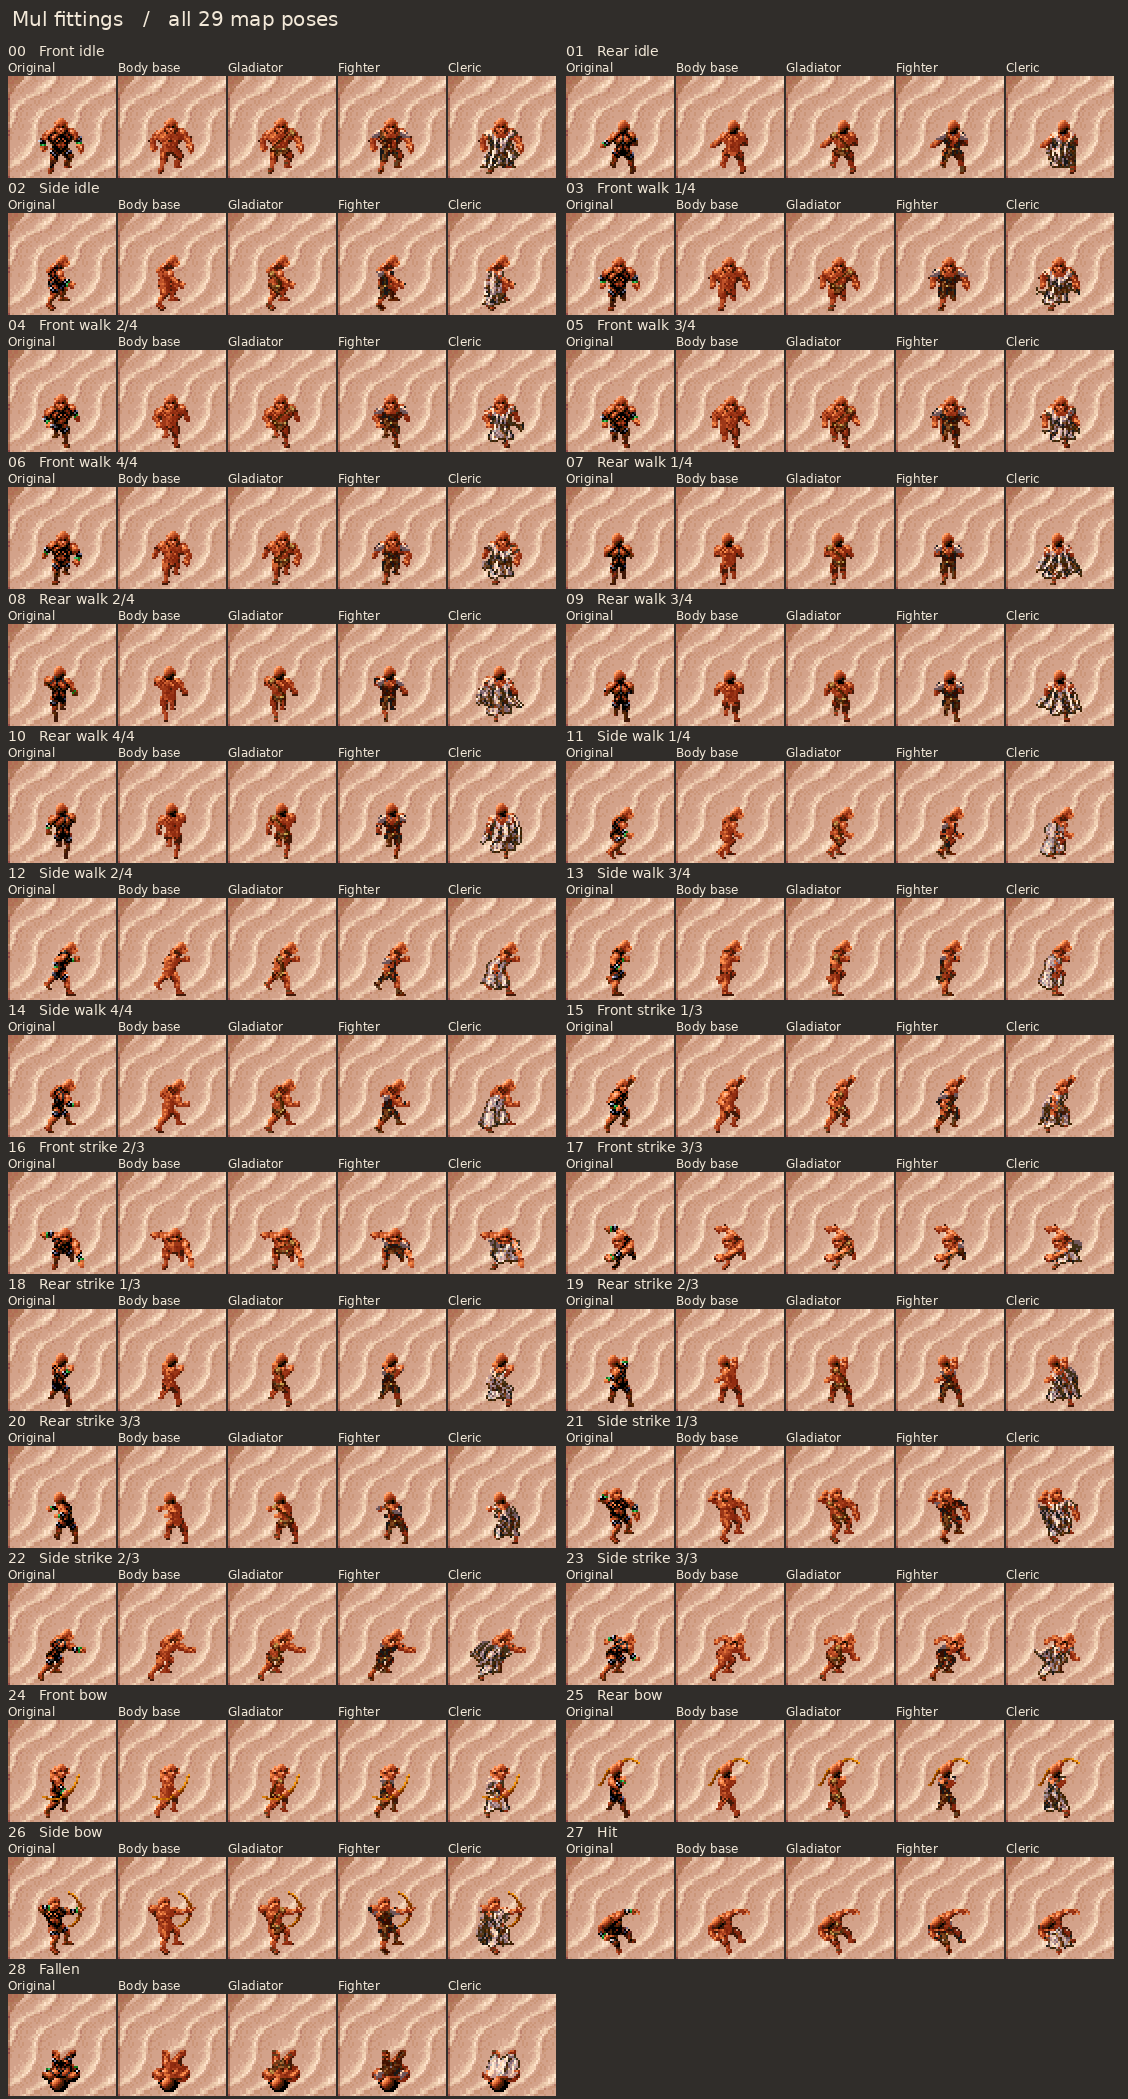
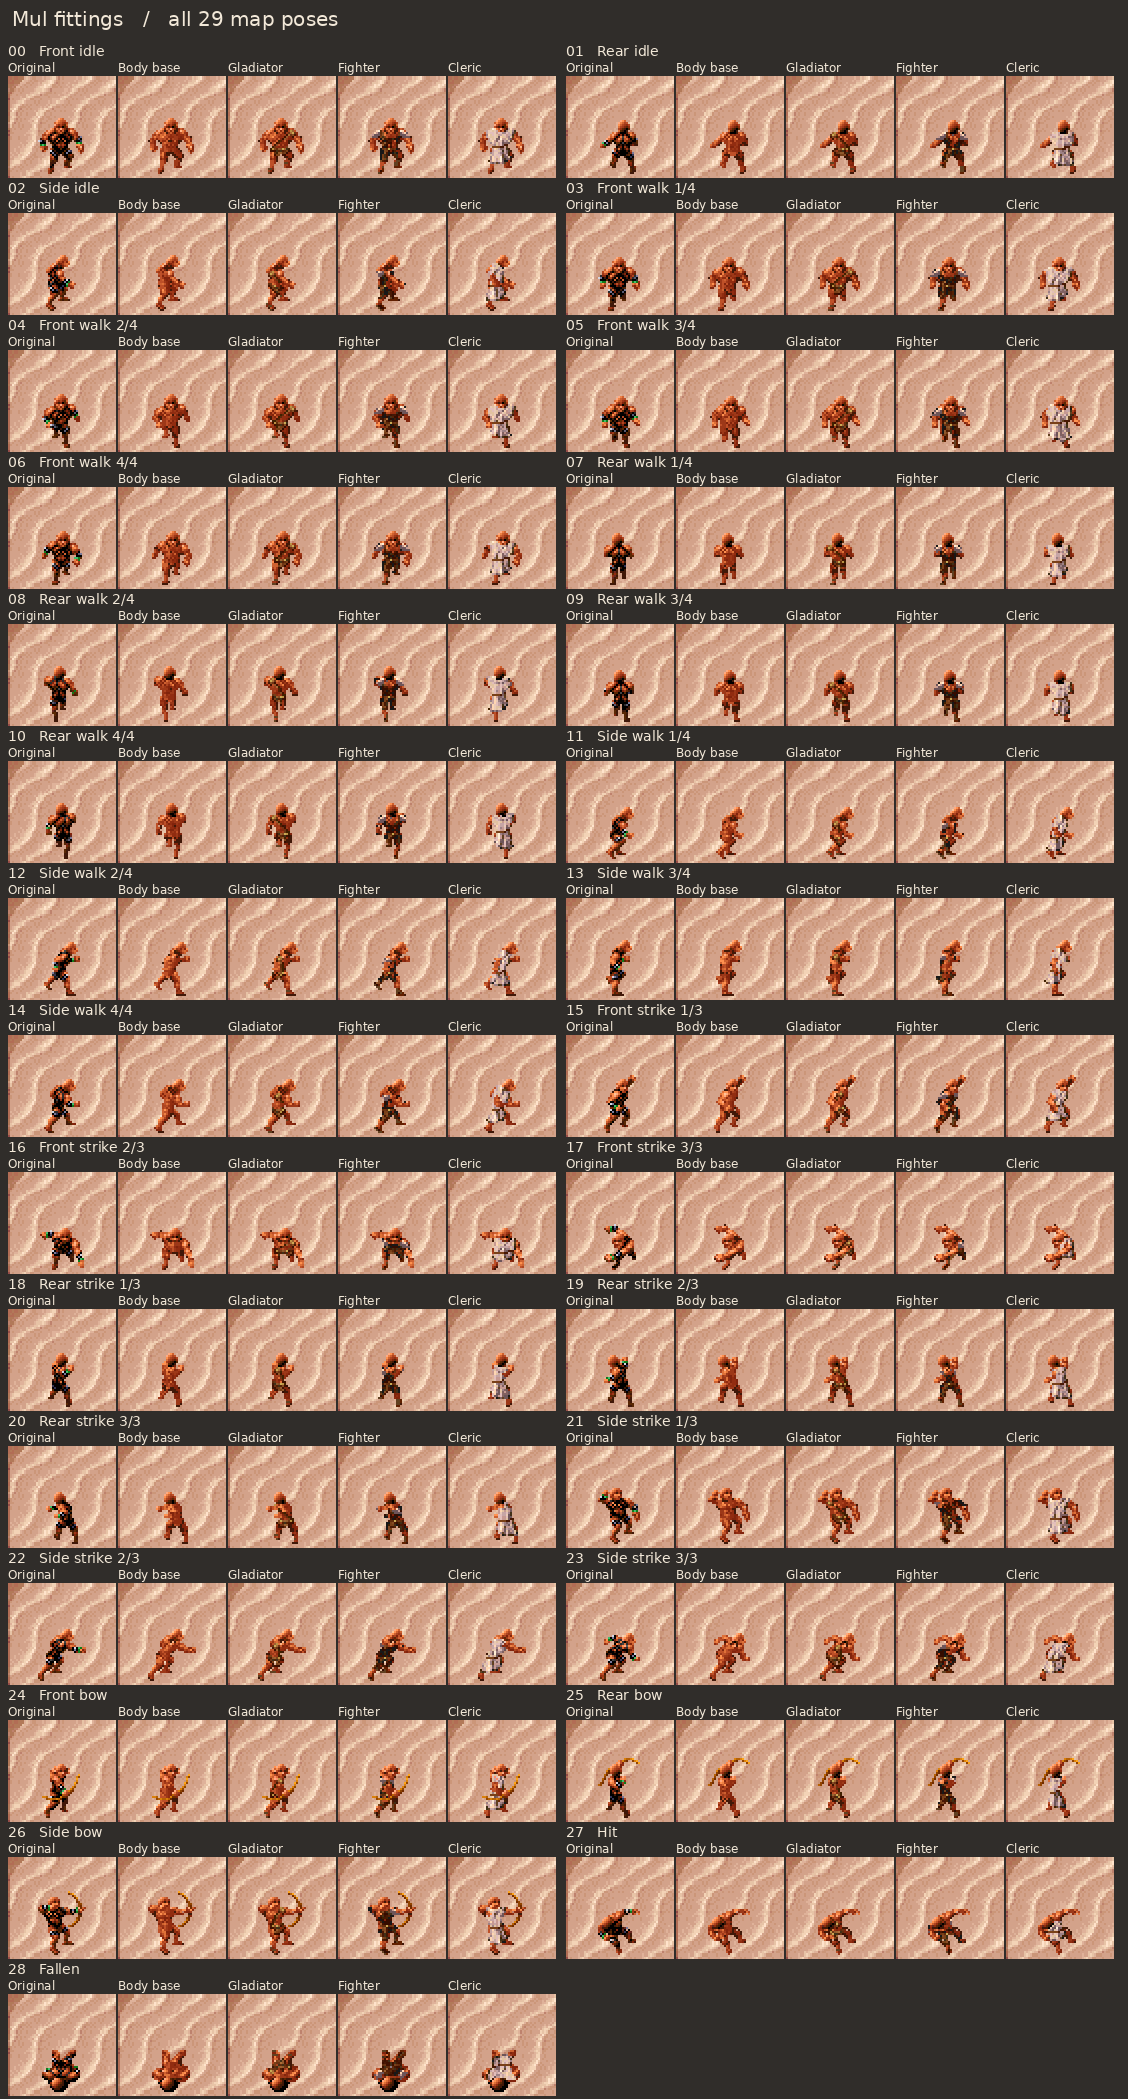
Refit the Cleric robe to the Mul stride and clear crossing forearms

diff --git a/prototypes/mulstudy.py b/prototypes/mulstudy.py
@@ -1,20 +1,21 @@
 """First Mul class fittings, using the retail figure and the human garment studies."""
 import argparse
 from functools import lru_cache
+from math import exp, sin, pi
 from pathlib import Path
 from zipfile import ZipFile
 
-from PIL import Image
+from PIL import Image, ImageDraw
 
 from elfreview import TERRAIN, dwarf, elf, label, loop
-from outfitdetail import RAMPS
+from outfitdetail import RAMPS, reference_folds
 from wornreview import Atlas
 from dsloader import art, classoutfits as co
 
 MODEL = 2093
 PAD = 8
 ROLES = ("Original", "Body base", "Gladiator", "Fighter", "Cleric")
-PARENTS = {"Gladiator": "Gladiator", "Fighter": "Warrior", "Cleric": "Priest"}
+PARENTS = {"Gladiator": "Gladiator", "Fighter": "Warrior"}
 # Position of the matching human cel in the Mul cel. Combat cels have
 # different bounding boxes when the striking hand travels above the head.
 REGISTER = ((1, 1), (0, 0), (0, 0), (1, 1), (0, 1), (1, 1), (0, 1), (0, 0), (0, 0), (0, 0),
@@ -70,6 +71,129 @@ def body_chunk(combat):
         return archive.read(f"Study/{tag}-body")
 
 
+# Each cut was traced on the unpadded Mul body. The four cross-sections
+# (row, left, right) locate the shoulder, ribs, girdle and hanging hem.
+# The last number lifts one corner of the hem as the near knee advances.
+ROBE_CUTS = (
+    ((5, 4, 18), (9, 4, 17), (14, 7, 14), (23, 5, 17), 2),
+    ((6, 5, 16), (10, 5, 16), (14, 7, 14), (23, 5, 17), -2),
+    ((4, 3, 8), (9, 1, 8), (15, 2, 8), (23, -1, 10), 2),
+    ((5, 3, 17), (9, 4, 16), (14, 5, 13), (22, 4, 15), 2),
+    ((5, 3, 16), (9, 3, 15), (14, 5, 12), (22, 4, 14), -2),
+    ((4, 4, 15), (9, 3, 15), (13, 5, 13), (22, 4, 15), -1),
+    ((5, 3, 16), (9, 4, 15), (14, 5, 13), (22, 4, 14), 2),
+    ((6, 1, 12), (9, 2, 12), (14, 4, 10), (22, 2, 12), 2),
+    ((5, 1, 12), (9, 2, 13), (14, 4, 10), (23, 2, 12), 2),
+    ((6, 2, 13), (9, 3, 13), (14, 5, 11), (22, 3, 13), -1),
+    ((5, 3, 13), (9, 3, 13), (14, 5, 11), (23, 3, 13), -2),
+    ((4, 5, 10), (9, 3, 10), (15, 3, 8), (22, -1, 9), 2),
+    ((4, 8, 13), (9, 5, 12), (15, 5, 10), (22, 0, 13), -2),
+    ((4, 4, 9), (9, 2, 10), (15, 2, 7), (22, -2, 8), 2),
+    ((3, 6, 12), (8, 4, 12), (15, 4, 9), (22, 0, 13), 3),
+    ((7, 5, 11), (11, 3, 11), (15, 3, 9), (23, 0, 13), 2),
+    ((5, 7, 17), (9, 7, 17), (12, 7, 16), (16, 5, 17), 1),
+    ((7, 8, 13), (10, 8, 14), (13, 8, 14), (17, 4, 15), -2),
+    ((6, 3, 9), (10, 2, 10), (14, 2, 8), (23, 0, 11), -2),
+    ((6, 4, 10), (9, 3, 10), (14, 4, 11), (22, 2, 14), -2),
+    ((5, 5, 10), (9, 6, 12), (14, 6, 13), (22, 4, 16), -2),
+    ((5, 5, 15), (10, 5, 13), (15, 6, 14), (23, 5, 16), 2),
+    ((5, 7, 15), (9, 6, 13), (14, 4, 11), (22, 0, 12), 3),
+    ((5, 7, 15), (9, 4, 12), (13, 4, 11), (20, 0, 12), 2),
+    ((5, 5, 11), (10, 5, 10), (15, 4, 10), (23, 1, 12), 2),
+    ((8, 7, 11), (12, 5, 12), (17, 6, 10), (25, 4, 14), -2),
+    ((8, 4, 13), (13, 4, 12), (18, 6, 12), (26, 5, 15), 1),
+    ((6, 6, 11), (9, 5, 12), (11, 5, 13), (16, 5, 16), 3),
+    ((6, 2, 16), (10, 4, 15), (13, 5, 13), (18, 3, 14), 1),
+)
+
+# Near forearms that cross the linen, traced from elbow to wrist on the
+# source (centre line and thickness). The garment turns under the sleeve.
+CROSSING_ARMS = {
+    2: ((2, 10), (5, 14), (11, 15), 3), 11: ((4, 10), (5, 13), (11, 14), 3),
+    12: ((7, 8), (6, 10), (5, 14), 3), 13: ((4, 9), (3, 12), (5, 16), 3),
+    14: ((5, 9), (7, 12), (15, 13), 3), 15: ((4, 10), (3, 14), (5, 17), 3),
+    17: ((12, 10), (10, 13), (3, 17), 3), 18: ((11, 7), (10, 9), (7, 11), 2),
+    19: ((4, 8), (4, 11), (1, 13), 2), 20: ((8, 7), (5, 8), (1, 8), 2),
+    22: ((13, 7), (16, 9), (21, 10), 3), 23: ((14, 7), (15, 11), (18, 13), 3),
+    24: ((6, 9), (6, 12), (11, 15), 3), 25: ((12, 10), (11, 12), (10, 14), 2),
+    26: ((2, 8), (3, 10), (5, 11), 3), 27: ((3, 9), (2, 12), (4, 14), 3),
+}
+
+
+@lru_cache(maxsize=2)
+def linen_grain(game):
+    return reference_folds(game)["linen"]
+
+
+# Warm middle tones keep broad lit planes ivory on arena sand. The old
+# high-contrast brown/white trim is confined to the belt and turned hem.
+MUL_LINEN = (208, 204, 207, 205, 194, 206, 120, 61, 123, 199, 125, 62, 155, 63)
+
+
+def cleric_robe(game, pose, body, protected, arm):
+    shoulder, ribs, waist, hem, lift = ROBE_CUTS[pose]
+    height, width = len(body), len(body[0]) - 2*PAD
+    result = [row[:] for row in body]
+    grain = linen_grain(game)
+    side = pose in (2, 11, 12, 13, 14, 15, 22, 23, 24)
+    rear = pose in (1, 7, 8, 9, 10, 18, 19, 20, 25)
+    cuts = (shoulder, ribs, waist, hem)
+    for start, end in zip(cuts, cuts[1:]):
+        for y in range(start[0], end[0] + (end == hem)):
+            t = (y-start[0]) / (end[0]-start[0])
+            left = round(start[1] + t*(end[1]-start[1]))
+            right = round(start[2] + t*(end[2]-start[2]))
+            for x in range(left, right+1):
+                u = (x-left)/(right-left)
+                # One knee pushes the corner up; two offset folds describe
+                # the volume over the thighs, including the space between them.
+                bottom = hem[0] - round(max(0, lift)*u + max(0, -lift)*(1-u)
+                                        + 1.9*abs(2*u-1)**3)
+                if y > bottom:
+                    continue
+                px, py = (width-1-x, height-1-y) if pose == 28 else (x, y)
+                skin = body[py][px+PAD]
+                if ((px, py) in protected or (y <= waist[0] and skin is None)
+                        or (skin is not None and 0 <= px < width and arm.getpixel((px, py)))):
+                    continue
+                relief = grain[(y-waist[0]) % 8][(x-waist[1]) % 8]
+                shade = 9.1 + .9*relief - 3.5*u + .8*sin(pi*u)
+                if y < waist[0]:
+                    # A shallow back yoke and diagonal front overlap leave the
+                    # neck open. In profile only the near lapel is visible.
+                    depth = (y-shoulder[0])/(waist[0]-shoulder[0])
+                    if rear:
+                        seam_y = shoulder[0] + 1 + round(2*sin(pi*u))
+                        if y == seam_y:
+                            shade -= 2.4
+                    else:
+                        seam = .76 - .65*depth
+                        distance = (u-seam)*(right-left)
+                        if abs(distance) < .68:
+                            shade -= 3.3
+                        elif .68 <= distance < 1.7:
+                            shade += 2.1
+                    shade += 1.5*(1-depth) - 1.3*exp(-.7*(y-waist[0]+1)**2)
+                else:
+                    drop = (y-waist[0])/(hem[0]-waist[0])
+                    fold = (.41 if side else .53) + (.22 if lift > 0 else -.23)*drop
+                    dist = (u-fold)*(right-left)
+                    shade += 3.2*exp(-.45*(dist+1.7)**2) - 4.5*exp(-.65*dist**2)
+                belt_y = waist[0] - int(u > .72)
+                if y == belt_y:
+                    color = 94 if u < .55 else 90
+                else:
+                    if y == bottom:
+                        shade -= 4.0
+                    if x == right:
+                        shade -= 3.8
+                    if x == left:
+                        shade -= 1.8
+                    color = MUL_LINEN[max(0, min(len(MUL_LINEN)-1, round(shade)))]
+                result[py][px+PAD] = color
+    return result
+
+
 def fitted_rows(game, pose):
     cb, f = divmod(pose, 15)
     native, human = game.fr(MODEL+cb, f), game.fr(2095+cb, f)
@@ -109,6 +233,17 @@ def fitted_rows(game, pose):
             x, y = hx+ix, hy+iy
             if 0 <= x < w and 0 <= y < h and native[y][x] is not None:
                 keep.add((x, y))
+    # At a crossed arm the cloth must pass behind the forearm as well as
+    # behind the fingertips. The Fighter guard can still cover the upper arm.
+    arm = Image.new("1", (w, h))
+    leather_keep = keep.copy()
+    if pose in CROSSING_ARMS:
+        elbow, bend, wrist, thickness = CROSSING_ARMS[pose]
+        draw = ImageDraw.Draw(arm)
+        draw.line((bend, wrist), fill=1, width=thickness)
+        leather_keep.update((x, y) for y, row in enumerate(native) for x, c in enumerate(row)
+                            if c is not None and arm.getpixel((x, y)))
+        draw.line((elbow, bend), fill=1, width=thickness)
     out = {"Original": original, "Body base": body}
     for role, parent in PARENTS.items():
         frame = co.frames(parent, cb)[f]
@@ -125,13 +260,13 @@ def fitted_rows(game, pose):
             for u, c in enumerate(row):
                 if c in DARK and c != bare[v][u] and sum((u+i, v+j) in material_pixels for i, j in
                                                          ((-1, 0), (1, 0), (0, -1), (0, 1))) >= 2:
-                    cloth[u, v] = 88 if role != "Cleric" else 204
+                    cloth[u, v] = 88
         garment = [r[:] for r in body]
         for (u, v), c in cloth.items():
             x, y = u-PAD+dx, v-PAD+dy
-            if not (0 <= y < h and -PAD <= x < w+PAD) or (x, y) in keep:
+            if not (0 <= y < h and -PAD <= x < w+PAD) or (x, y) in leather_keep:
                 continue
-            if role != "Cleric" and not (0 <= x < w and native[y][x] is not None):
+            if not (0 <= x < w and native[y][x] is not None):
                 continue
             if role == "Gladiator" and pose < 28 and v-PAD >= co.LANDMARKS[pose][-1]:
                 # Dark leather at the turned-under hem separates the warm
@@ -147,19 +282,7 @@ def fitted_rows(game, pose):
                     if (0 <= outer < w and native[y][outer] in NATIVE_LIGHT and (outer, y) not in keep
                             and garment[y][x+PAD] != body[y][x+PAD]
                             and garment[y][outer+PAD] == body[y][outer+PAD]):
-                        garment[y][outer+PAD] = 205 if role == "Cleric" else 91
-        if role == "Cleric":
-            # Turn the hem over the leading shin. These cells lie just
-            # outside the old priest hem where it meets the wider Mul calf.
-            for x, y in {10: ((14, 20),), 12: ((3, 22),), 26: ((3, 25),)}.get(pose, ()):
-                garment[y][x+PAD] = 205
-            # Close the fold under the striking arm as the sleeve crosses
-            # the torso. The openings outside the elbow and bow stay clear.
-            if pose == 15:
-                for y, shade in ((16, 205), (17, 204), (18, 207)):
-                    garment[y][2+PAD] = shade
-            elif pose == 20:
-                garment[9][5+PAD] = 205
+                        garment[y][outer+PAD] = 91
         if role == "Gladiator" and pose < 28:
             # A bronze clasp peeks out of the overlapped hide at the hip.
             # Follow the moving belt and leave it hidden behind a crossing arm.
@@ -167,23 +290,54 @@ def fitted_rows(game, pose):
             y = waist+dy
             hip = round((sl+sr)/2)+dx+1
             for x in (hip, hip-1, hip+1):
-                if (0 < x < w-1 and 0 <= y < h and (x, y) not in keep
+                if (0 < x < w-1 and 0 <= y < h and (x, y) not in leather_keep and (x-1, y) not in leather_keep
                         and garment[y][x+PAD] in RAMPS["hide"]
                         and garment[y][x+PAD-1] in RAMPS["hide"]):
                     garment[y][x+PAD] = 169
                     garment[y][x+PAD-1] = 95
                     break
         out[role] = garment
+    out["Cleric"] = cleric_robe(game, pose, body, keep, arm)
     return out
 
 
-def render(game_dir, output):
+def cleric_comparison(game, pose, rows, sand, previous_sheet):
+    # Sample the lossless 2x proof at 61f043d so its pixels and registration
+    # survive even after the old generator is changed.
+    x = 8 + (pose % 2)*558 + ROLES.index("Cleric")*110
+    y = 76 + (pose//2)*137
+    before = previous_sheet.crop((x, y, x+108, y+102)).resize((54, 51), Image.Resampling.NEAREST)
+    cb, f = divmod(pose, 15)
+    npc = 1563 + cb
+    caption = "Retail Priest"
+    if f >= game.count(npc):
+        npc, f = 1563, 0
+        caption += " (idle)"
+    def tile(pixels):
+        return elf.placed_tile(game, pixels, sand, 1, 0, 0, 0)
+
+    samples = (("Mul body", tile(rows["Body base"])), ("Previous robe", before),
+               ("Refitted robe", tile(rows["Cleric"])), (caption, tile(game.fr(npc, f))))
+    page = Image.new("RGB", (736, 276), dwarf.PAPER)
+    label(page, (12, 7), "Mul Cleric fitting", 20)
+    label(page, (724, 8), f"{pose:02}   {dwarf.NAMES[pose]}", 16, "ra")
+    for j, (name, sample) in enumerate(samples):
+        x = 16 + j*182
+        label(page, (x+81, 35), name, 15, "ma")
+        page.paste(sample.resize((162, 153), Image.Resampling.NEAREST), (x, 58))
+        page.paste(sample, (x+54, 216))
+    return page
+
+
+def render(game_dir, output, previous_sheet=None):
     atlas = Atlas(game_dir)
     game = atlas.game
     sand = Image.open(TERRAIN).convert("RGB").crop((39, 130, 93, 181))
     paving = Image.open(TERRAIN.with_name("2026-11-09-figures-all-gone.png")).convert("RGB")
     paving = paving.crop((158, 21, 212, 72))
     frames = []
+    comparisons = []
+    before = Image.open(previous_sheet).convert("RGB") if previous_sheet else None
     sheet = Image.new("RGB", (2*5*110+28, 15*137+44), dwarf.PAPER)
     label(sheet, (12, 7), "Mul fittings   /   all 29 map poses", 20)
     references = ((1252, "Retail Warrior"), (1563, "Retail Priest"),
@@ -192,7 +346,7 @@ def render(game_dir, output):
     for pose, name in enumerate(dwarf.NAMES):
         rows = fitted_rows(game, pose)
         page = Image.new("RGB", (846, 468), dwarf.PAPER)
-        label(page, (12, 8), "Mul   /   first fittings", 21)
+        label(page, (12, 8), "Mul   /   revised fittings", 21)
         label(page, (832, 9), f"{pose:02}   {name}", 17, "ra")
         for j, role in enumerate(ROLES):
             x = 8+j*167
@@ -228,14 +382,19 @@ def render(game_dir, output):
             page.paste(large, (x, 348))
             page.paste(small, (x+109, 399))
         frames.append(page)
+        if before is not None:
+            comparisons.append(cleric_comparison(game, pose, rows, sand, before))
     output.mkdir(parents=True, exist_ok=True)
     loop(frames, output/"mul-study.gif")
     sheet.save(output/"mul-poses.png")
+    if comparisons:
+        loop(comparisons, output/"mul-cleric-fitting.gif")
 
 
 if __name__ == "__main__":
     parser = argparse.ArgumentParser(description=__doc__)
     parser.add_argument("game_dir", type=Path)
     parser.add_argument("output", type=Path)
+    parser.add_argument("--previous-sheet", type=Path, help="mul-poses.png from 61f043d for the fitting comparison")
     args = parser.parse_args()
-    render(args.game_dir, args.output)
+    render(args.game_dir, args.output, args.previous_sheet)

diff --git a/obsidian-edition/docs/class-outfits/muls.md b/obsidian-edition/docs/class-outfits/muls.md
@@ -2,6 +2,16 @@
 
 Shattered Lands uses one map figure for male and female Muls. The gallery follows that figure through all 29 poses with equipment slots empty. The original is on the left, followed by the cleaned body, Gladiator, Fighter and Cleric. The small copies show game size on arena sand and paving. The bottom row compares them with the retail Warrior and Priest and the approved human outfits.
 
+## Cleric fitting comparison
+
+The first robe borrowed the human Priest’s sleeve and hem positions. In rear steps 07–10 the sleeves hung beyond the elbows. In side steps 11–14 the folds followed the human stride. The revised wrap has short sleeves, a belt at the Mul’s waist and a continuous linen skirt. Watch step 12 for the bare forearm crossing the belt and the hem lifting away from the trailing foot. Rear step 08 shows the shallow seam across the shoulder blades.
+
+![Mul body, previous robe, refitted robe and retail Priest through all 29 poses, enlarged and at game size](mul-cleric-fitting.gif)
+
+## All three fittings
+
+The Gladiator and Fighter also received small corrections where leather crossed a foreground forearm. Side idle (02), the four profile steps (11–14) and the follow-through (17) show the change on both. The frame review covered all 87 dressed poses with empty equipment slots. Face and bow pixels matched the retail source, visible hand landmarks matched the body base, and the silhouettes had no new enclosed gaps or detached pixels.
+
 ![Mul body and three outfits walking and fighting beside retail and human figures](mul-study.gif)
 
 [Inspect all 29 poses at your own pace](mul-poses.png)
@@ -12,6 +22,6 @@ Shattered Lands uses one map figure for male and female Muls. The gallery follow
 | Fighter | Compare the shoulders and upper back with the Gladiator in rear idle (01). The bone guard sits at the shoulder and the dark jerkin covers the back between the arms. |
 | Cleric | Watch the linen swing behind the calf in the profile walk (11–14). In side step two (12) the hand passes in front of the folds. The front bow (26) shows the draw hand and bow against the cream robe. |
 
-The fittings use the retail Mul’s walking and combat pictures (2093 and 2094). The cleaned body keeps the original stance, scalp, jaw and copper highlights. The skin under the harness and shorts follows the muscle shading of the corresponding human pose. The human garments supplied the leather, bone and linen references.
+The fittings use the retail Mul’s walking and combat pictures (2093 and 2094). The cleaned body keeps the original stance, scalp, jaw and copper highlights. The skin under the harness and shorts follows the muscle shading of the corresponding human pose. The human garments supplied the leather and bone references. The revised linen follows cross-sections traced on each Mul pose, with texture sampled from the back of the retail Priest’s robe.
 
 This first art study covers three of the six single classes. Druid, Psionicist and Thief are next, followed by the nine legal pairs and three triples. The gallery was rendered from the study. [Playable classes and combinations](../../PLAYER-GUIDE.md)
